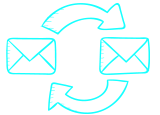
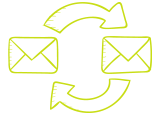
some style fixed

Changed region(s): [[0.0312, 0.0, 0.8125, 0.6522], [0.5938, 0.313, 0.9688, 0.6522], [0.2812, 0.6783, 0.8125, 0.9913]]

diff --git a/Chapix/Xaa/tmpl/login-form.html b/Chapix/Xaa/tmpl/login-form.html
@@ -1,7 +1,7 @@
-<section class="green login-form">
+<section class="yellow login-form">
   <div class="section"></div>
   <div class="container">
-    <div class="center white-text">
+    <div class="center black-text">
       <h4>Inicia sesión</h4>
     </div>
     <div class="row">
@@ -36,6 +36,6 @@
 	[% form.end %]
       </div>
     </div>
-  </div>  
+  </div>
   <div class="section"></div>
 </section>

diff --git a/Chapix/Xaa/css/index-mkt.css b/Chapix/Xaa/css/index-mkt.css
@@ -266,3 +266,17 @@ footer a{
 nav ul li:last-child:hover, nav ul li:last-child.active {
   background-color : transparent;
 }
+
+.mkt-que-es {
+  font-size: 16px;
+}
+
+
+.you-can-wrapper img {
+  max-width: 140px;
+}
+
+.you-can {
+  margin-bottom: 40px;
+  font-size: 20px;
+}

diff --git a/Chapix/Xaa/css/marketeromd.css b/Chapix/Xaa/css/marketeromd.css
@@ -238,3 +238,8 @@ footer a{
 .uppercase {
 	text-transform: uppercase;
 }
+
+
+.large-modal {
+  width: 70%;
+}
